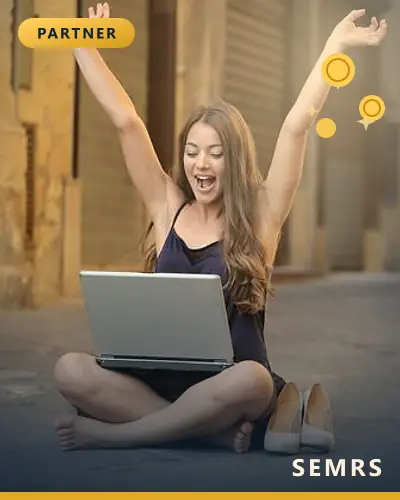
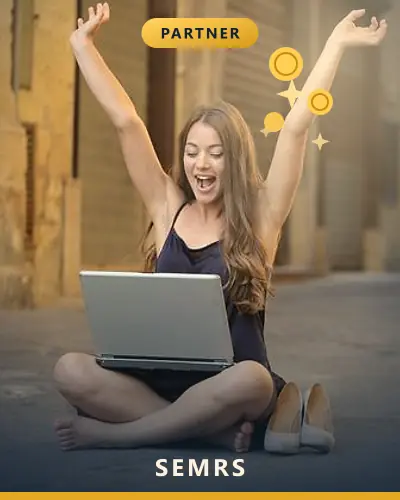
Desktop popup: photo panel beside the text, no empty gap (1.4.7)
The text column was pushed right by a percentage padding (percent of the
screen, not the popup). Fixed 260px photo panel; badge, stamp and offer
graphics centered in the photos so the panel crop keeps them.

diff --git a/semrs-site/plugins/semrs-update-server/includes/popups.php b/semrs-site/plugins/semrs-update-server/includes/popups.php
@@ -324,7 +324,7 @@ function semrs_us_popups_print() {
 	echo $tpl; // phpcs:ignore WordPress.Security.EscapeOutput -- built from escaped parts above.
 	echo '<script type="application/json" id="semrs-pop-data">' . wp_json_encode( $cfg ) . '</script>';
 	?>
-<style id="semrs-pop-css">.semrs-pop{position:fixed;z-index:99990;font-size:1rem;line-height:1.5;color:var(--sp-text,#1f2937)}.semrs-pop *{box-sizing:border-box}.semrs-pop--modal{inset:0;display:grid;place-items:center;padding:16px;background:rgba(11,31,58,.55)}.semrs-pop__box,.semrs-pop__slide,.semrs-pop__toast{position:relative;background:var(--sp-surface,#fff);border:1px solid var(--sp-line,#e5e7eb);border-radius:16px;box-shadow:0 20px 50px rgba(0,0,0,.25)}.semrs-pop__box{width:min(30rem,100%);max-height:calc(100vh - 32px);overflow:auto;padding:28px 24px 20px;text-align:center}.semrs-pop__h{margin:0 0 8px;font-size:1.45rem;line-height:1.25;color:var(--sp-primary,#0b1f3a)}.semrs-pop__box p,.semrs-pop__slide p{margin:0 0 10px}.semrs-pop__tag{display:inline-block;margin:0 0 8px!important;padding:2px 10px;border-radius:99px;background:var(--sp-accent-soft,#fbf3dc);color:var(--sp-accent-text,#6b5200);font-size:.8rem;font-weight:700;text-transform:uppercase;letter-spacing:.04em}.semrs-pop__price s{color:var(--sp-muted,#5b6575)}.semrs-pop__price strong{font-size:1.15em;color:var(--sp-primary,#0b1f3a)}.semrs-pop__ends,.semrs-pop__fine{font-size:.85rem;color:var(--sp-muted,#5b6575)}.semrs-pop__cta{display:inline-block;margin:6px 0 10px;padding:12px 22px;border-radius:10px;background:var(--sp-accent,#d4a72c);color:var(--sp-on-accent,#0b1f3a)!important;font-weight:700;text-decoration:none}.semrs-pop__cta:hover,.semrs-pop__cta:focus-visible{filter:brightness(1.07)}.semrs-pop__cta--sm{margin:0;padding:8px 16px;font-size:.9rem}.semrs-pop__x{position:absolute;top:6px;right:8px;width:40px;height:40px;border:0;background:none;color:inherit;font-size:1.6rem;line-height:1;cursor:pointer;border-radius:8px}.semrs-pop__x:focus-visible,.semrs-pop__code:focus-visible{outline:2px solid var(--sp-accent,#d4a72c);outline-offset:2px}.semrs-pop__code{display:inline-flex;gap:10px;align-items:center;padding:8px 14px;border:2px dashed var(--sp-accent,#d4a72c);border-radius:10px;background:none;color:inherit;font:inherit;cursor:pointer}.semrs-pop__code span{font-weight:800;letter-spacing:.08em}.semrs-pop--bar{left:0;right:0;bottom:0}.semrs-pop__bar{display:flex;flex-wrap:wrap;gap:8px 14px;align-items:center;justify-content:center;padding:10px 52px 10px 16px;background:var(--sp-primary,#0b1f3a);color:#fff;position:relative}.semrs-pop__bar .semrs-pop__x{top:50%;transform:translateY(-50%);color:#fff}.semrs-pop__cd{font-variant-numeric:tabular-nums;opacity:.9}.semrs-pop--slide{right:16px;bottom:16px;width:min(21rem,calc(100% - 32px))}.semrs-pop__slide{padding:20px 18px 16px}.semrs-pop__slide .semrs-pop__h{font-size:1.1rem;padding-right:28px}.semrs-pop--toast{left:16px;bottom:16px;max-width:calc(100% - 32px)}.semrs-pop__toast{padding:12px 48px 12px 16px;font-size:.92rem}.semrs-pop__toast .semrs-pop__x{top:50%;transform:translateY(-50%);width:36px;height:36px}.semrs-pop>*{animation:semrs-pop-in .25s ease-out}.semrs-pop__x{z-index:2}.semrs-pop__box.has-img{width:min(44rem,100%);padding:28px 24px 20px calc(38% + 24px);text-align:left}.semrs-pop__box.has-img .semrs-pop__img{position:absolute;left:0;top:0;width:38%;height:100%;object-fit:cover;object-position:top;border-radius:16px 0 0 16px}.semrs-pop__slide.has-img .semrs-pop__img{float:left;width:64px;height:64px;margin:0 12px 6px 0;border-radius:50%;object-fit:cover;object-position:top;border:2px solid var(--sp-accent,#d4a72c)}.semrs-pop__box,.semrs-pop__slide{box-shadow:0 20px 50px rgba(0,0,0,.25),0 0 0 2px rgba(212,167,44,.6),0 0 30px rgba(212,167,44,.35)}.semrs-pop__cta{position:relative;overflow:hidden;background:linear-gradient(135deg,#f6d36b,#d4a72c 55%,#b8891a);box-shadow:0 6px 18px rgba(212,167,44,.45)}.semrs-pop__cta::after{content:"";position:absolute;top:0;left:-60%;width:40%;height:100%;background:linear-gradient(100deg,transparent,rgba(255,255,255,.7),transparent);transform:skewX(-20deg);animation:semrs-pop-shine 2.8s ease-in-out infinite}@keyframes semrs-pop-shine{0%,55%{left:-60%}100%{left:130%}}.semrs-pop__bar strong{background:linear-gradient(90deg,#fff,#ffe39a,#fff);-webkit-background-clip:text;background-clip:text;color:transparent}@keyframes semrs-pop-in{from{opacity:0;transform:translateY(12px)}to{opacity:1;transform:none}}@media (prefers-reduced-motion:reduce){.semrs-pop>*{animation:none}.semrs-pop__cta::after{animation:none;display:none}}@media (max-width:768px){.semrs-pop--modal{align-items:end;padding:0;background:transparent;pointer-events:none}.semrs-pop--modal .semrs-pop__box{pointer-events:auto;width:100%;max-height:45vh;overflow:auto;border-radius:16px 16px 0 0;padding:20px 16px 12px}.semrs-pop__h{font-size:1.2rem}.semrs-pop__box.has-img{padding:20px 16px 12px}.semrs-pop__box.has-img .semrs-pop__img{position:static;float:left;width:64px;height:64px;margin:0 12px 6px 0;border-radius:50%;border:2px solid var(--sp-accent,#d4a72c)}.semrs-pop--slide{right:0;bottom:0;width:100%}.semrs-pop__slide{border-radius:16px 16px 0 0}}</style>
+<style id="semrs-pop-css">.semrs-pop{position:fixed;z-index:99990;font-size:1rem;line-height:1.5;color:var(--sp-text,#1f2937)}.semrs-pop *{box-sizing:border-box}.semrs-pop--modal{inset:0;display:grid;place-items:center;padding:16px;background:rgba(11,31,58,.55)}.semrs-pop__box,.semrs-pop__slide,.semrs-pop__toast{position:relative;background:var(--sp-surface,#fff);border:1px solid var(--sp-line,#e5e7eb);border-radius:16px;box-shadow:0 20px 50px rgba(0,0,0,.25)}.semrs-pop__box{width:min(30rem,100%);max-height:calc(100vh - 32px);overflow:auto;padding:28px 24px 20px;text-align:center}.semrs-pop__h{margin:0 0 8px;font-size:1.45rem;line-height:1.25;color:var(--sp-primary,#0b1f3a)}.semrs-pop__box p,.semrs-pop__slide p{margin:0 0 10px}.semrs-pop__tag{display:inline-block;margin:0 0 8px!important;padding:2px 10px;border-radius:99px;background:var(--sp-accent-soft,#fbf3dc);color:var(--sp-accent-text,#6b5200);font-size:.8rem;font-weight:700;text-transform:uppercase;letter-spacing:.04em}.semrs-pop__price s{color:var(--sp-muted,#5b6575)}.semrs-pop__price strong{font-size:1.15em;color:var(--sp-primary,#0b1f3a)}.semrs-pop__ends,.semrs-pop__fine{font-size:.85rem;color:var(--sp-muted,#5b6575)}.semrs-pop__cta{display:inline-block;margin:6px 0 10px;padding:12px 22px;border-radius:10px;background:var(--sp-accent,#d4a72c);color:var(--sp-on-accent,#0b1f3a)!important;font-weight:700;text-decoration:none}.semrs-pop__cta:hover,.semrs-pop__cta:focus-visible{filter:brightness(1.07)}.semrs-pop__cta--sm{margin:0;padding:8px 16px;font-size:.9rem}.semrs-pop__x{position:absolute;top:6px;right:8px;width:40px;height:40px;border:0;background:none;color:inherit;font-size:1.6rem;line-height:1;cursor:pointer;border-radius:8px}.semrs-pop__x:focus-visible,.semrs-pop__code:focus-visible{outline:2px solid var(--sp-accent,#d4a72c);outline-offset:2px}.semrs-pop__code{display:inline-flex;gap:10px;align-items:center;padding:8px 14px;border:2px dashed var(--sp-accent,#d4a72c);border-radius:10px;background:none;color:inherit;font:inherit;cursor:pointer}.semrs-pop__code span{font-weight:800;letter-spacing:.08em}.semrs-pop--bar{left:0;right:0;bottom:0}.semrs-pop__bar{display:flex;flex-wrap:wrap;gap:8px 14px;align-items:center;justify-content:center;padding:10px 52px 10px 16px;background:var(--sp-primary,#0b1f3a);color:#fff;position:relative}.semrs-pop__bar .semrs-pop__x{top:50%;transform:translateY(-50%);color:#fff}.semrs-pop__cd{font-variant-numeric:tabular-nums;opacity:.9}.semrs-pop--slide{right:16px;bottom:16px;width:min(21rem,calc(100% - 32px))}.semrs-pop__slide{padding:20px 18px 16px}.semrs-pop__slide .semrs-pop__h{font-size:1.1rem;padding-right:28px}.semrs-pop--toast{left:16px;bottom:16px;max-width:calc(100% - 32px)}.semrs-pop__toast{padding:12px 48px 12px 16px;font-size:.92rem}.semrs-pop__toast .semrs-pop__x{top:50%;transform:translateY(-50%);width:36px;height:36px}.semrs-pop>*{animation:semrs-pop-in .25s ease-out}.semrs-pop__x{z-index:2}.semrs-pop__box.has-img{width:min(42rem,100%);padding:28px 28px 20px 288px;text-align:left}.semrs-pop__box.has-img .semrs-pop__img{position:absolute;left:0;top:0;width:260px;height:100%;object-fit:cover;object-position:top;border-radius:16px 0 0 16px}.semrs-pop__slide.has-img .semrs-pop__img{float:left;width:64px;height:64px;margin:0 12px 6px 0;border-radius:50%;object-fit:cover;object-position:top;border:2px solid var(--sp-accent,#d4a72c)}.semrs-pop__box,.semrs-pop__slide{box-shadow:0 20px 50px rgba(0,0,0,.25),0 0 0 2px rgba(212,167,44,.6),0 0 30px rgba(212,167,44,.35)}.semrs-pop__cta{position:relative;overflow:hidden;background:linear-gradient(135deg,#f6d36b,#d4a72c 55%,#b8891a);box-shadow:0 6px 18px rgba(212,167,44,.45)}.semrs-pop__cta::after{content:"";position:absolute;top:0;left:-60%;width:40%;height:100%;background:linear-gradient(100deg,transparent,rgba(255,255,255,.7),transparent);transform:skewX(-20deg);animation:semrs-pop-shine 2.8s ease-in-out infinite}@keyframes semrs-pop-shine{0%,55%{left:-60%}100%{left:130%}}.semrs-pop__bar strong{background:linear-gradient(90deg,#fff,#ffe39a,#fff);-webkit-background-clip:text;background-clip:text;color:transparent}@keyframes semrs-pop-in{from{opacity:0;transform:translateY(12px)}to{opacity:1;transform:none}}@media (prefers-reduced-motion:reduce){.semrs-pop>*{animation:none}.semrs-pop__cta::after{animation:none;display:none}}@media (max-width:768px){.semrs-pop--modal{align-items:end;padding:0;background:transparent;pointer-events:none}.semrs-pop--modal .semrs-pop__box{pointer-events:auto;width:100%;max-height:45vh;overflow:auto;border-radius:16px 16px 0 0;padding:20px 16px 12px}.semrs-pop__h{font-size:1.2rem}.semrs-pop__box.has-img{padding:20px 16px 12px}.semrs-pop__box.has-img .semrs-pop__img{position:static;float:left;width:64px;height:64px;margin:0 12px 6px 0;border-radius:50%;border:2px solid var(--sp-accent,#d4a72c)}.semrs-pop--slide{right:0;bottom:0;width:100%}.semrs-pop__slide{border-radius:16px 16px 0 0}}</style>
 <script id="semrs-pop-js">(function(){function run(){var d=document,w=window,c=JSON.parse(d.getElementById('semrs-pop-data').textContent),open=0,bar=0;
 function st(s,k,v){try{if(v===undefined)return s.getItem(k);s.setItem(k,v)}catch(e){return null}}
 function L(k,v){return st(w.localStorage,k,v)}function S(k,v){return st(w.sessionStorage,k,v)}

diff --git a/semrs-site/plugins/semrs-update-server/semrs-update-server.php b/semrs-site/plugins/semrs-update-server/semrs-update-server.php
@@ -2,7 +2,7 @@
 /**
  * Plugin Name:       SEMRS Update Server
  * Description:       Runs on semrs.com only. Publishes theme and plugin releases, sells SEMRS Pro add-ons (Lemon Squeezy and manual invoices), manages license keys and the My Licenses page, runs the yearly sales calendar, sales popups and the affiliate program, answers update checks from every site using SEMRS products, and lists the live sites with their versions.
- * Version:           1.4.6
+ * Version:           1.4.7
  * Requires at least: 6.5
  * Requires PHP:      7.4
  * Author:            SEMRS
@@ -17,7 +17,7 @@ defined( 'ABSPATH' ) || exit;
 // WP Consent API: stores only functional data (preferences, saved inputs) and loads no trackers itself.
 add_filter( 'wp_consent_api_registered_' . plugin_basename( __FILE__ ), '__return_true' );
 
-define( 'SEMRS_US_VERSION', '1.4.6' );
+define( 'SEMRS_US_VERSION', '1.4.7' );
 define( 'SEMRS_US_DIR', plugin_dir_path( __FILE__ ) );
 define( 'SEMRS_US_URL', plugin_dir_url( __FILE__ ) );
 
